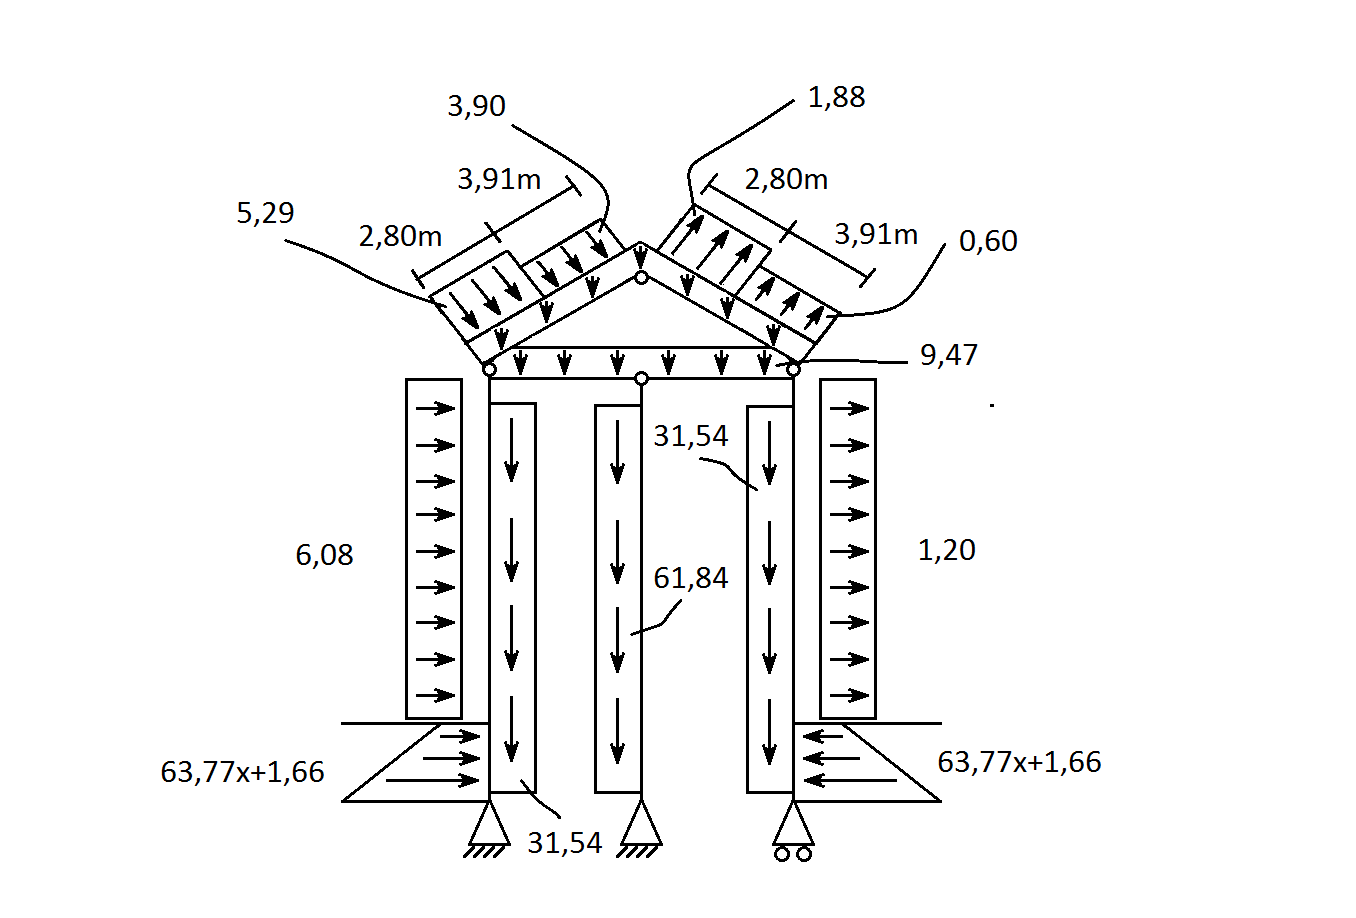
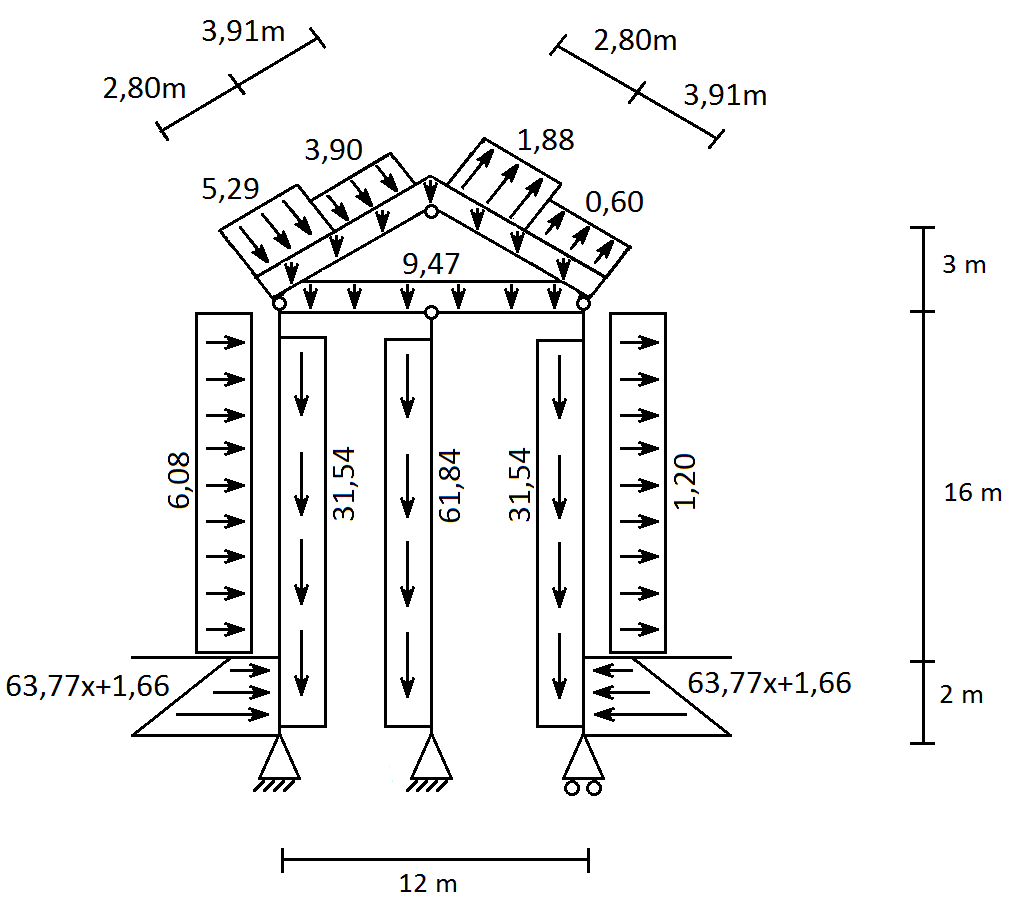
Figurer og lastkombiafsnit

diff --git a/Rapport/Teknisk/indled.tex b/Rapport/Teknisk/indled.tex
@@ -712,15 +712,18 @@ Ud fra Eurocode 1991 aflæses den jævnt fordelte last, $q_k$, for kategori A1, 
 \end{figure}
 
 \section{Lastkombinationer}
-Den karakteristiske egenlast, jordlast, vindlast, snelast og nyttelast er bestemt for tilbygningen til Strøybergs Palæ. Derfor opstilles en række lasttilfælde, for at finde de regningsmæssige laster, som skal anvendes til beregningerne af reaktioner. Lastkombinationerne opstilles ved at betragte tilbygningen i de områder, som er illustreret på Figur XX (LAV FIGUR AF OMRÅDER OG INDSÆT).
-\newline
-\newline
-INDSÆT FIGUR AF OMRÅDER!
-\newline
-\newline
+Den karakteristiske egenlast, jordlast, vindlast, snelast og nyttelast er bestemt for tilbygningen til Strøybergs Palæ. Derfor opstilles en række lasttilfælde, for at finde de regningsmæssige laster, som skal anvendes til beregningerne af reaktioner. Lastkombinationerne opstilles ved at betragte tilbygningen i de områder, som er illustreret på Figur \ref{fig:omraader}.
+
+\begin{figure}[htbp]
+	\centering
+	\includegraphics[width=0.3\textwidth]{billeder/indeling.png}
+	\caption{Statisk system inddelt i områder}
+	\label{fig:omraader}
+\end{figure}
+
 Ved et rigtigt byggeprojekt skal der opstilles lasttilfælde for alle tænkelige scenarier, som kan forekomme. For dette projekt er det dog ikke en mulighed, og derfor er der til videre beregninger valgt at fokusere på vindlast som den dominerende last. Hermed opstilles der følgende lastkombination for hvert område:
 \begin{center}
-	$E_d = \gamma_{G1} K_{FI} G_{K1} + \gamma_{G2} K_{FI} G_{K2} + \gamma_{G3} K_{FI} G_{K3} \gamma_{Q1} K_{FI} Q_{K1} + \gamma_{Q2} \Psi_{0,2} K_{FI} Q_{K2} + \gamma_{Q3} \Psi_{0,3} K_{FI} Q_{K3}$ 
+	$E_d = \gamma_{G1} K_{FI} G_{K1} + \gamma_{G2} K_{FI} G_{K2} + \gamma_{Q1} K_{FI} Q_{K1} + \gamma_{Q2} \Psi_{0,2} K_{FI} Q_{K2} + \gamma_{Q3} \Psi_{0,3} K_{FI} Q_{K3}$ 
 \end{center}
 
 \begin{itemize}
@@ -772,9 +775,55 @@ De laster der virker i lodret retning, altså y-retningen, er nyttelast, egenlas
 	$y-retningen = 1,\!0 \cdot 1,\!1 \cdot 21,\!64 \frac{kN}{m} + 1,\!5 \cdot 0,\!5 \cdot 1,\!1 \cdot 9,\!37 \frac{kN}{m} = 31,\!54 \frac{kN}{m}$ 
 \end{center}
 
-Ovenstående beregninger gentages hvor hvert område på konstruktionen, og der er derfor lavet i alt 11 lastkombinationer i dette projekt. De laster der virker på konstruktionen er angivet på Figur (LAV FIGUR MED ALLE LASTER VED VIND DOMINERENDE). 
-\newline
-\newline
-INDSÆT FIGUR MED ALLE LASTER FOR VIND DOMINERENDE!
-\newline
-\newline
+Ovenstående beregninger gentages hvor hvert område på konstruktionen, og der er derfor lavet i alt 11 lastkombinationer i dette projekt. De laster der virker på konstruktionen er angivet på Figur \ref{fig:laster}. 
+
+\begin{figure}[htbp]
+	\centering
+	\includegraphics[width=0.3\textwidth]{billeder/vdom.png}
+	\caption{Samlede laster på det statiske system med vind fra vest dominerende. Lasterne er angivet i $\frac{kN}{m}$}
+	\label{fig:laster}
+\end{figure}
+
+Taget i bjælkekonstruktionen er forbundet til den resterende del af konstruktionen via charnierled. Lasterne der virker på taget vil dermed kunne overføres til den resterende del af konstruktionen som punktlaster med angrebspunkt i knudepunkterne, hvor charnierledene er. De reaktioner og laster som virker på taget er illustreret på Figur \ref{fig:tagmedreaktioner}.
+
+\begin{figure}[htbp]
+	\centering
+	\includegraphics[width=0.3\textwidth]{billeder/tagmedreaktion.png}
+	\caption{Tag med laster og understøtninger. Lasterne er angivet i $\frac{kN}{m}$}
+	\label{fig:tagmedreaktioner}
+\end{figure}
+
+Punktlasterne bestemmes gennem de tre ligevægtsligninger, ved at beregne reaktionerne i de to punkter, D og F, som begge er fast simple understøttet. Før reaktionerne bestemmes, skal vindlasten, som virker vinkelret på tagoverfladen, deles op i x- og y-komposanter ved at mulitplicere med taghældningen på $26,\!6^\circ$. Egenlasten virker vinkelret på jordoverfladen, og derfor kun i y-retningen. Når vindlasten er opdelt i x- og y-komposanter, samles lasterne for henholdsvis x- og y-retningen. Fritlegemediagrammet samt de laster på taget, som skal bruges til at finde reaktioner, er illustreret på Figur \ref{fig:fld}. 
+
+\begin{figure}[htbp]
+	\centering
+	\includegraphics[width=0.3\textwidth]{billeder/fldtag.png}
+	\caption{Frilegemediagram. Lasterne er angivet i $\frac{kN}{m}$}
+	\label{fig:fld}
+\end{figure}
+
+Reaktionerne kan dermed beregnes:
+\begin{center}
+	Moment om D: $-14,\!221 \frac{kN}{m} \cdot 2,\!795 m \cdot \frac{2,\!5 m}{2} - 12,\!986 \frac{kN}{m} \cdot 3,\!913 m \cdot (2,\!5 m + \frac{3,\!5 m}{2}) - 2,\!364 \frac{kN}{m} \cdot 2,\!795 m \cdot (\frac{1,\!25 m}{2}) - 1,\!746 \frac{kN}{m} \cdot 3,\!913 m \cdot (1,\!25 m + \frac{1,\!75 m}{2}) - 7,\!814 \frac{kN}{m} \cdot 2,\!795 m \cdot (6 m + \frac{2,\!5 m}{2}) - 8,\!960 \frac{kN}{m} \cdot 3,\!913 m \cdot (8,\!5 m + \frac{3,\!5 m}{2}) - (-0,\!840 \frac{kN}{m}) \cdot 2,\!795 m \cdot (1,\!25 m + \frac{1,\!75 m}{2}) - (- 0,\!267 \frac{kN}{m}) \cdot 3,\!913 m \cdot (\frac{1,\!25 m}{2}) + 12 m \cdot f_y = 0 \leftrightarrow f_y = 66,\!366 kN$ 
+\end{center}
+
+\begin{center}
+	Lodret ligevægt: $-14,\!221 \frac{kN}{m} \cdot 2,\!795 m - 12,\!986 \frac{kN}{m} \cdot 3,\!913 m - 7,\!814 \frac{kN}{m} \cdot 2,\!795 m -  8,\!960 \frac{kN}{m} \cdot 3,\!913 m + d_y + f_y = 0 \leftrightarrow d_y = 81,\!103 kN$
+\end{center}
+
+\begin{center}
+	Moment om charnier-led (højre del): $- 7,\!814 \frac{kN}{m} \cdot 2,\!795 m \cdot (\frac{2,\!5 m}{2}) - 8,\!960 \frac{kN}{m} \cdot 3,\!913 m \cdot (2,\!5 m + \frac{3,\!5 m}{2}) - (-0,\!840 \frac{kN}{m}) \cdot 2,\!795 m \cdot (\frac{1,\!75 m}{2}) - (- 0,\!267 \frac{kN}{m}) \cdot 3,\!913 m \cdot (1,\!75 m + \frac{1,\!25 m}{2}) + f_y \cdot 6 m - f_x \cdot 3 m = 0 \leftrightarrow f_x = 75,\!474 kN$
+\end{center}
+
+\begin{center}
+	Vandret ligevægt: $2,\!364 \frac{kN}{m} \cdot 2,\!795 m + 1,\!746 \frac{kN}{m} \cdot 3,\!913 m + 0,\!840 \frac{kN}{m} \cdot 2,\!795 m + 0,\!267 \frac{kN}{m} \cdot 3,\!913 m - f_x + d_x = 0 \leftrightarrow d_x = 58,\!641 kN$
+\end{center}
+
+Disse reaktioner virker som punktlast på taget, og det endelige statiske system med de laster der skal bruges til at finde reaktioner for det statiske system, er illustreret på Figur \ref{fig:alle}. 
+
+\begin{figure}[htbp]
+	\centering
+	\includegraphics[width=0.3\textwidth]{billeder/endeligesystemmedlaster.png}
+	\caption{Statisk system med punktlaster og linjelaster. Linjelasterne er angivet i $\frac{kN}{m}$}
+	\label{fig:alle}
+\end{figure}

diff --git a/Rapport/Teknisk/staal.tex b/Rapport/Teknisk/staal.tex
@@ -2,15 +2,6 @@
 INDLEDNING
 
 \section{Reaktioner}
-Reaktionskræfterne til det statiske system skal bestemmes. Der er opstillet en indvendig stålkonstruktion, se Figur \ref{fig:system}, til optagelse af lasterne på bygning. Som det ses på figuren, indeholder konstruktion tre rammer. På rammerne vil lasterne fra taget og etagedækkene optages. Taget i bjælkekonstruktionen er forbundet til den resterende del af konstruktionen via charnierledene. Belastningerne der virker på taget vil dermed kunne overføres til den resterende del af konstruktionen som punktlaster med angrebspunkt i kundepunkterne hvor charnierledene er, som kan ses på Figur \ref{fig:del2}. 
-
-\begin{figure}[htbp]
-	\centering
-	\includegraphics[width=0.3\textwidth]{billeder/delto.png}
-	\caption{Laster fra taget optages i charnierledene}
-	\label{fig:del2}
-\end{figure}
-
 Når der beregnes reaktionskræfter for de tre understøtninger, er der behov for at opdele konstruktionen. Systemet opdeles i det midterste charnierled i henholdvis en venstre- og højre del, som ses på Figur \ref{fig:opdelingv} og \ref{fig:opdelingh}. I skæringen mellem de to dele, vil der være snitkræfter men ikke momentkræfter, da momentet i charnierledet er nul. Dermed optræder der kun normalkraften, N, og forskydningskraften, V.
 
 \begin{figure}[htbp]\centering
